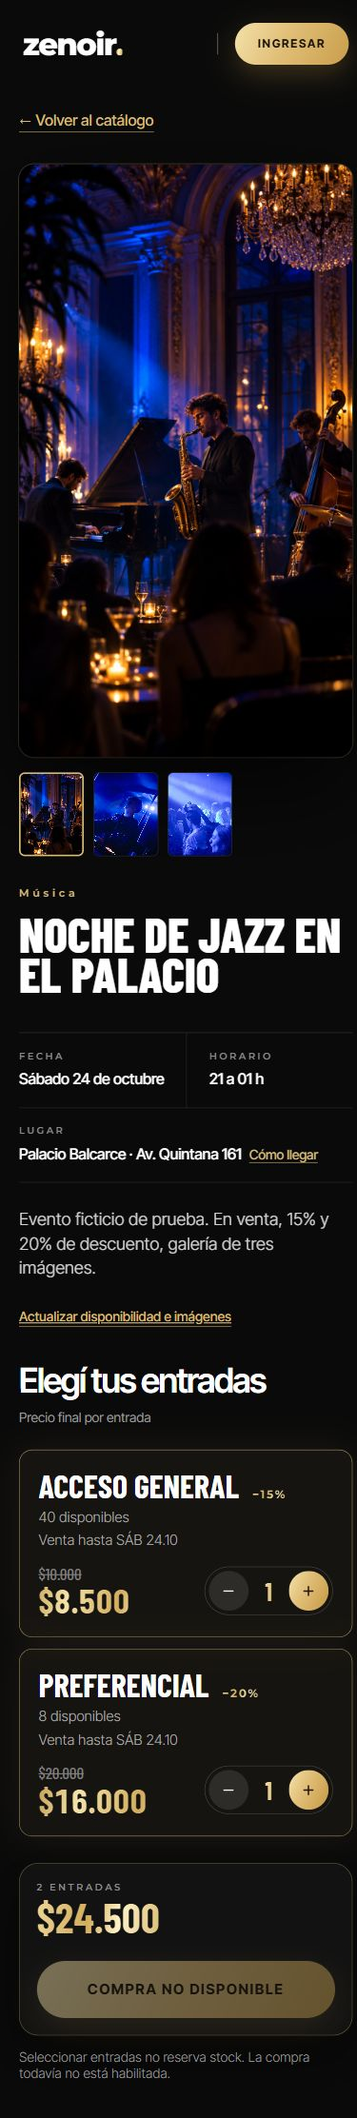
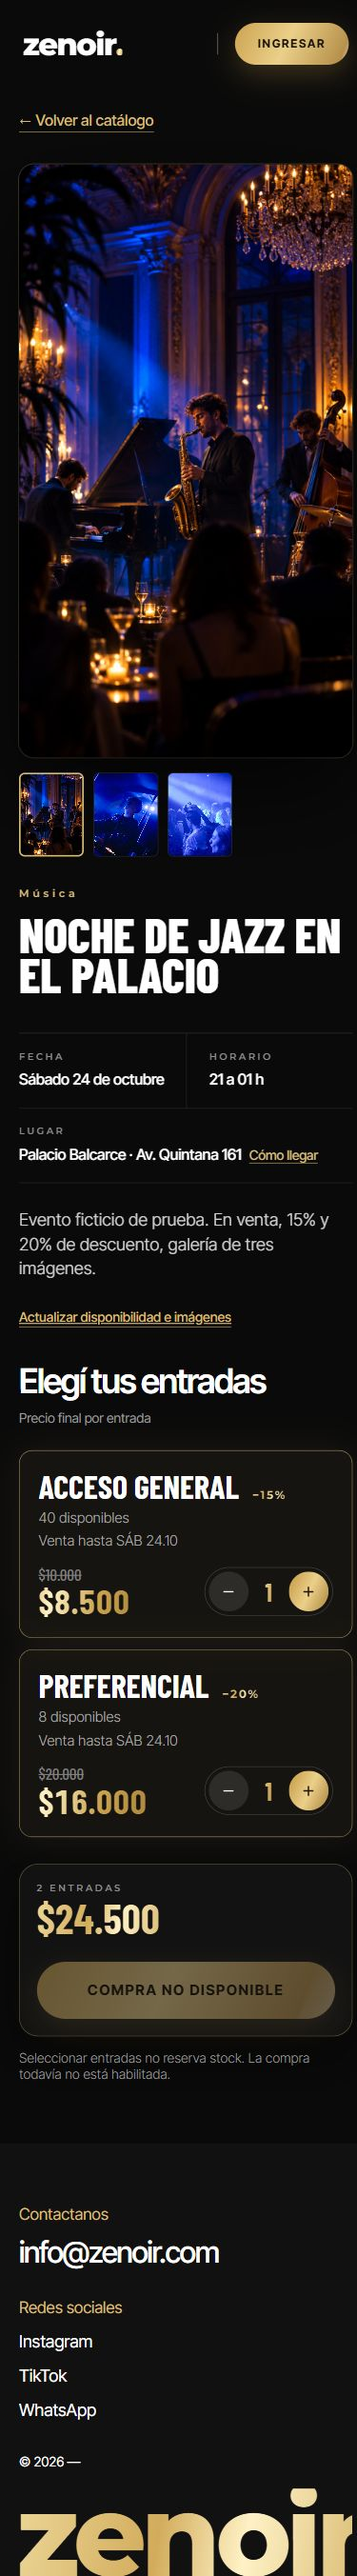
docs(capturas): corregir recorte de las vistas de detalle

diff --git a/docs/capturas/punto-3/README.md b/docs/capturas/punto-3/README.md
@@ -2,7 +2,7 @@
 
 Capturadas el 18/10/2026 desde `http://localhost:5173`, rama
 `feature/catalogo-detalle-eventos`, con la API conectada a SQL Server.
-Son recortes completos de la sección implementada, no de toda la landing.
+El catálogo está recortado a su sección; el detalle se captura completo, sin recortar el ancho.
 
 | Tamaño de viewport | Catálogo | Detalle |
 | --- | --- | --- |
